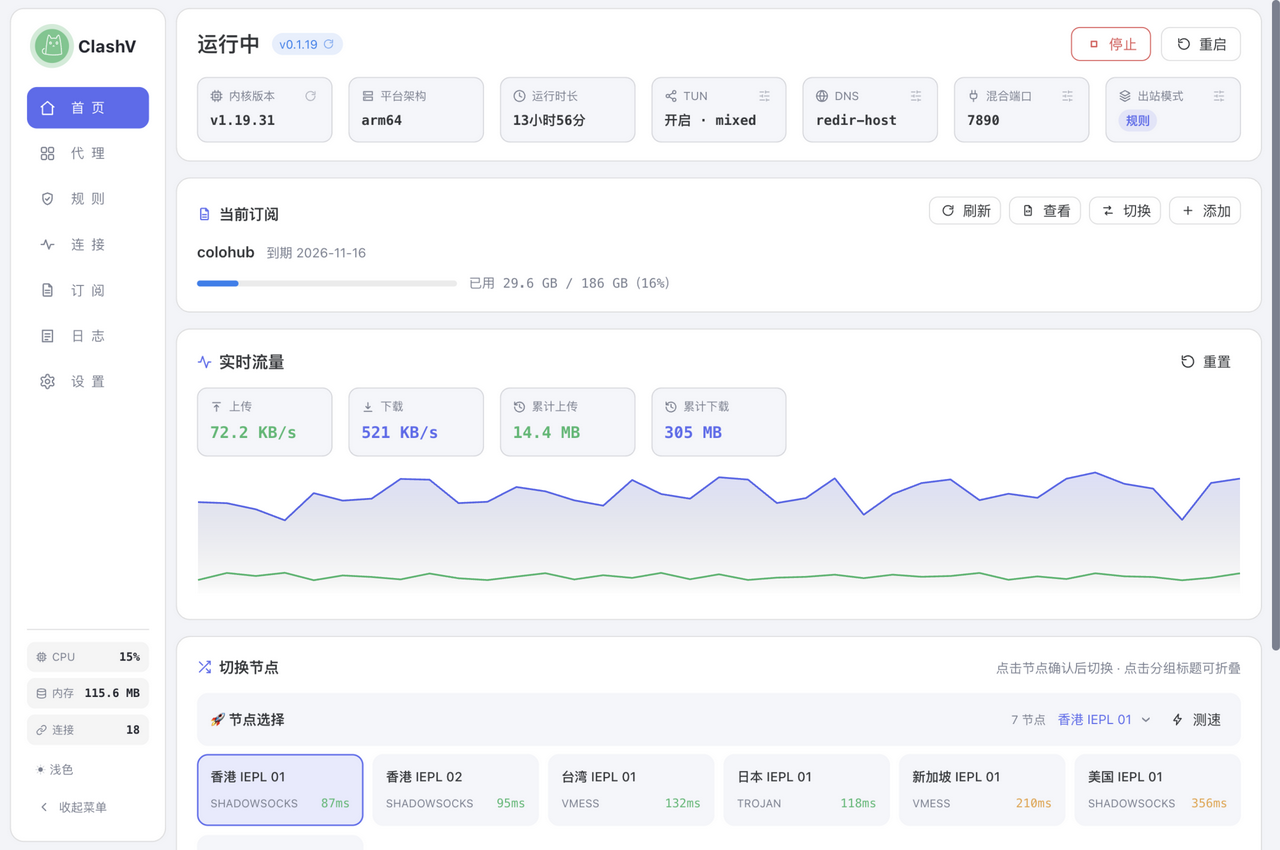
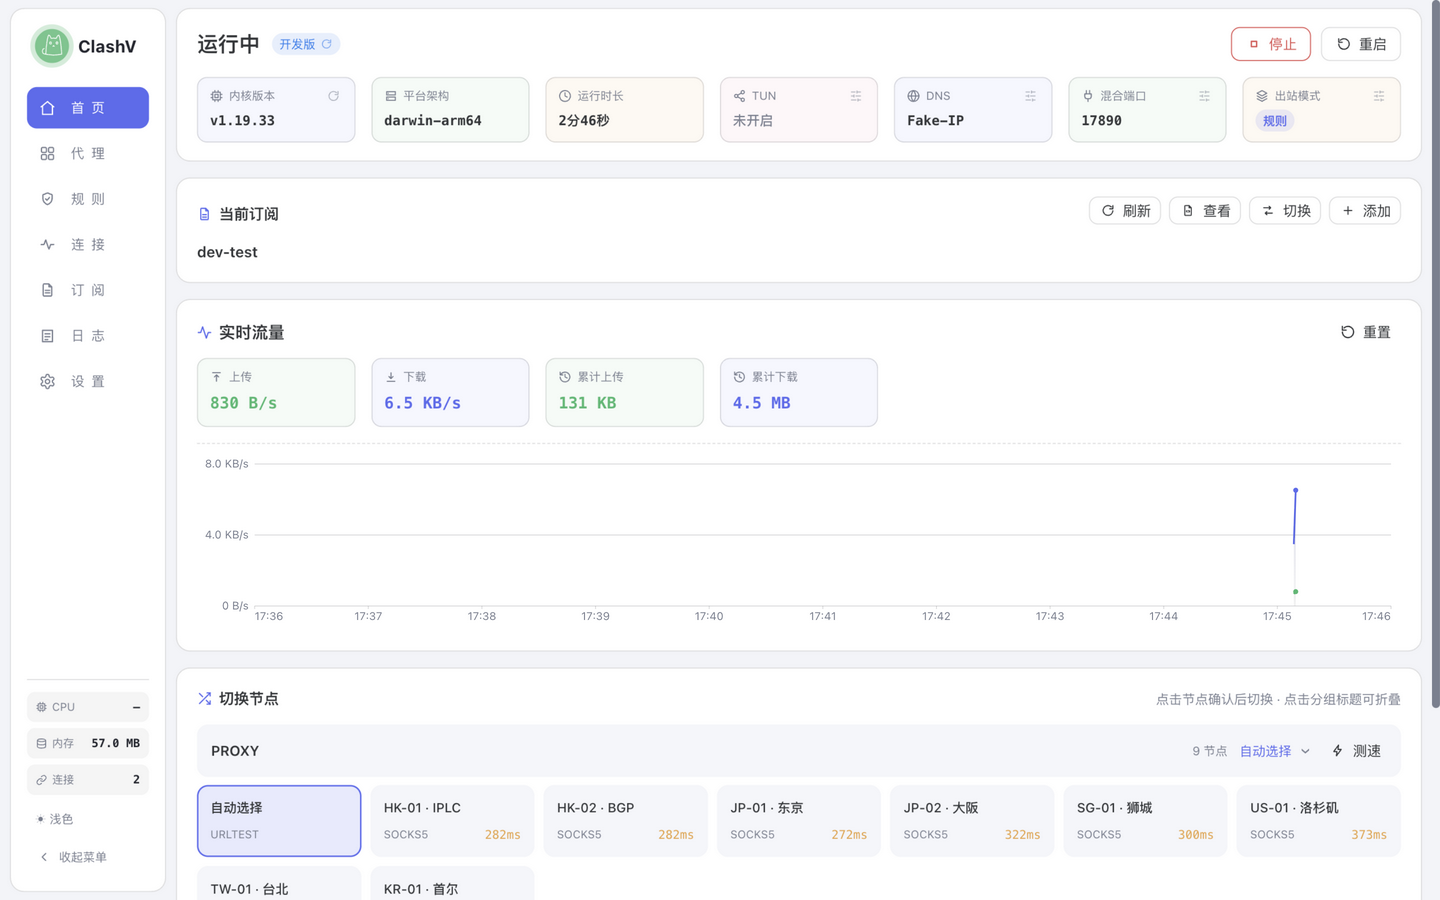
菜单模式可切换：设置→界面显示新增「菜单模式」（左侧竖向/顶部横向，localStorage 本地偏好仅桌面端生效，手机端固定顶部横向），README 界面预览与功能介绍同步更新并重截全部截图（新增顶部横向菜单展示图）

diff --git a/web/src/components/Sidebar.vue b/web/src/components/Sidebar.vue
@@ -2,6 +2,7 @@
 import { computed, ref } from 'vue'
 import { NButton, NDropdown, NTooltip } from 'naive-ui'
 import { themeMode, resolvedTheme, applyTheme } from '../theme.js'
+import { menuMode } from '../menuMode.js'
 import { store } from '../store.js'
 import AppIcon from './AppIcon.vue'
 
@@ -72,7 +73,8 @@ function onMoreSelect(key) {
 </script>
 
 <template>
-  <aside class="sidebar" :class="{ collapsed }">
+  <!-- 顶部横向模式（桌面端）：不应用折叠态（横条无折叠语义，避免侧栏模式残留的 localStorage 折叠状态串扰） -->
+  <aside class="sidebar" :class="{ collapsed: collapsed && menuMode !== 'top', 'top-bar': menuMode === 'top' }">
     <div class="logo">
       <!-- logo 徽标：运行状态的唯一标识——运行中绿底白猫呼吸闪动、启动中橙底快闪（与原状态点同节奏），停止时透明底恢复常规线条；状态文字收进悬浮提示 -->
       <div
@@ -298,6 +300,38 @@ nav { display: flex; flex-direction: column; gap: 4px; flex: 1; }
   .sidebar.collapsed .side-stats { display: none; }
   .sidebar.collapsed .theme-btn,
   .sidebar.collapsed .collapse-btn { justify-content: center; padding: 0; }
+}
+
+/* ---- 顶部横向菜单（仅桌面端，>760px）：设置「菜单模式=顶部横向」时生效 ----
+   横条卡片与移动端横条同构（上下布局 + 圆角描边卡片），移动端始终横向、不走这里 */
+@media (min-width: 761px) {
+  .sidebar.top-bar {
+    width: auto;
+    flex-direction: row;
+    align-items: center;
+    gap: 18px;
+    padding: 10px 16px;
+    margin: 8px 10px 0; /* 底部不留 margin，内容区 .content 自带上边距 */
+  }
+  .sidebar.top-bar nav {
+    flex-direction: row;
+    flex: 1;
+    justify-content: center;
+    min-width: 0;
+  }
+  /* 抵消 letter-spacing 在横排下末字符后的尾随空隙，让 hover/选中底色视觉居中 */
+  .sidebar.top-bar .nav-item span { margin-right: -0.5em; }
+  /* 「更多」钮仅移动端显示；桌面端横条的主题入口在右侧 bottom 区 */
+  .sidebar.top-bar .more-btn { display: none; }
+  /* 迷你卡为竖排三行、折叠钮无横条语义，均不放横条 */
+  .sidebar.top-bar .side-stats,
+  .sidebar.top-bar .collapse-btn { display: none; }
+  .sidebar.top-bar .bottom {
+    flex-direction: row;
+    align-items: center;
+    flex: none;
+  }
+  .sidebar.top-bar .theme-btn { width: auto; justify-content: center; }
 }
 @media (max-width: 760px) {
   .sidebar {

diff --git a/web/src/views/SettingsView.vue b/web/src/views/SettingsView.vue
@@ -5,12 +5,20 @@ import { NButton, NCard, NEmpty, NInput, NInputGroup, NInputNumber, NModal, NPro
 import { api } from '../api.js'
 import { store, toast, ask, fmtTime } from '../store.js'
 import { glassEnabled, glassOpacity } from '../glass.js'
+import { menuMode } from '../menuMode.js'
 import AppIcon from '../components/AppIcon.vue'
 import HelpModal from '../components/HelpModal.vue'
 
 // 设置项问号说明弹窗内容：k=小节标题（作用/开关影响/默认与建议/注意），v=正文。
 // 行内不再放可见描述，全部收进弹窗，设置页只留名称+控件。
 const HELP = {
+  menuMode: {
+    title: '菜单模式',
+    rows: [
+      { k: '作用', v: '选择桌面端的菜单布局：左侧竖向为经典侧栏（默认），顶部横向把导航收成页面顶部一条横栏，内容区更宽、更利落。' },
+      { k: '注意', v: '仅桌面端生效；手机窄屏固定为顶部横向菜单，不受此设置影响。改动即时生效并保存在本浏览器（不占用后端设置）。' },
+    ],
+  },
   glass: {
     title: '磨砂模糊',
     rows: [
@@ -854,6 +862,16 @@ const tplViewing = computed(() => !!tplEditing.value?.builtin)
       <!-- 界面显示：磨砂模糊（纯浏览器本地偏好，glass.js 持久化，不走后端设置/保存按钮） -->
       <n-card v-if="tab === 'general'" title="界面显示">
         <div class="rows">
+          <div class="row">
+            <div class="row-text">
+              <span class="rt">菜单模式<HelpModal v-bind="HELP.menuMode" /></span>
+            </div>
+            <n-select
+              v-model:value="menuMode"
+              class="ctl"
+              :options="[{ value: 'side', label: '左侧竖向菜单' }, { value: 'top', label: '顶部横向菜单' }]"
+            />
+          </div>
           <div class="row">
             <div class="row-text">
               <span class="rt">磨砂模糊<HelpModal v-bind="HELP.glass" /></span>

diff --git a/web/src/App.vue b/web/src/App.vue
@@ -4,6 +4,7 @@ import { NButton, NConfigProvider, NModal, NProgress, NSpin, dateZhCN, zhCN } fr
 import Sidebar from './components/Sidebar.vue'
 import SetupWizard from './components/SetupWizard.vue'
 import { store, naiveTheme, naiveOverrides, toast, ask, fmtBytes, pushTraffic, setupDismissed } from './store.js'
+import { menuMode } from './menuMode.js'
 import { api } from './api.js'
 
 let statusTimer = null
@@ -190,7 +191,8 @@ async function startCoreDownload() {
 <template>
   <!-- locale：naive 内置文案（下拉「请选择」、日期选择器起止占位、分页等）走中文 -->
   <n-config-provider class="provider" :theme="naiveTheme" :theme-overrides="naiveOverrides" :locale="zhCN" :date-locale="dateZhCN">
-    <div class="layout">
+    <!-- 菜单模式：top 时桌面端也走上下布局（菜单横条在上、内容在下）；移动端本来就 column，不受影响 -->
+    <div class="layout" :class="{ 'layout-top': menuMode === 'top' }">
       <Sidebar />
       <main class="content">
         <router-view v-slot="{ Component }">
@@ -237,6 +239,7 @@ async function startCoreDownload() {
 /* NConfigProvider 自带一层 div，需接上 #app 的 height:100% 链，侧栏才能占满全高 */
 .provider { height: 100%; }
 .layout { display: flex; height: 100%; }
+.layout-top { flex-direction: column; }
 .content {
   flex: 1;
   overflow-y: auto;

diff --git a/web/src/menuMode.js b/web/src/menuMode.js
@@ -1,0 +1,13 @@
+// 菜单布局模式管理：side=左侧竖向菜单 / top=顶部横向菜单，全局单例。
+// 与主题、磨砂同类的纯浏览器本地偏好（localStorage 持久化，不走后端设置/保存按钮）。
+// 仅桌面端（>760px）生效；移动端始终为顶部横向菜单（Sidebar.vue 的移动端媒体查询不受此值影响）。
+import { ref, watch } from 'vue'
+
+const KEY = 'clashv_menu_mode'
+
+// 默认 side：保持历史版本左侧竖向菜单不变，老用户升级无感知
+export const menuMode = ref(localStorage.getItem(KEY) === 'top' ? 'top' : 'side')
+
+watch(menuMode, (v) => {
+  localStorage.setItem(KEY, v)
+})
